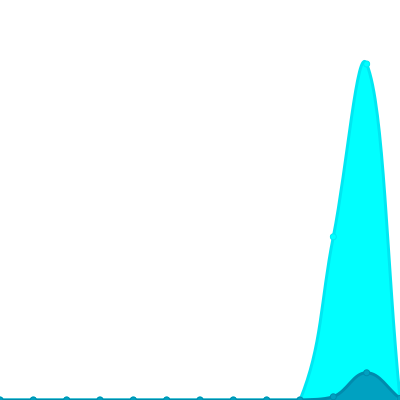
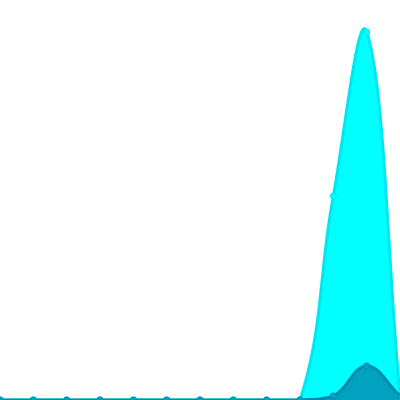
Update views

diff --git a/readme/849790671/year.md b/readme/849790671/year.md
@@ -23,10 +23,10 @@
 			<code>2024/10/1</code>
 		</td>
 		<td>
-			<code>1</code>
+			<code>2</code>
 		</td>
 		<td>
-			<code>1</code>
+			<code>2</code>
 		</td>
 	</tr>
 	<tr>
@@ -37,7 +37,7 @@
 			<code>17</code>
 		</td>
 		<td>
-			<code>210</code>
+			<code>184</code>
 		</td>
 	</tr>
 	<tr>
@@ -164,7 +164,7 @@
 </table>
 
 </details>
-<small><i>Last updated on 2024/10/9 6:20 AM UTC</i></small>
+<small><i>Last updated on 2024/10/9 12:27 PM UTC</i></small>
 
 ## ✂Copy and 📋 Paste
 ### SVG Badge

diff --git a/README.md b/README.md
@@ -37,7 +37,7 @@ The project created and maintained by [gayanvoice](https://github.com/gayanvoice
 	</tr>
 </table>
 
-<small><i>Last updated on 2024/10/9 6:20 AM UTC</i></small>
+<small><i>Last updated on 2024/10/9 12:27 PM UTC</i></small>
 
 ## ✂Copy and 📋 Paste
 ### Total Views Badge
